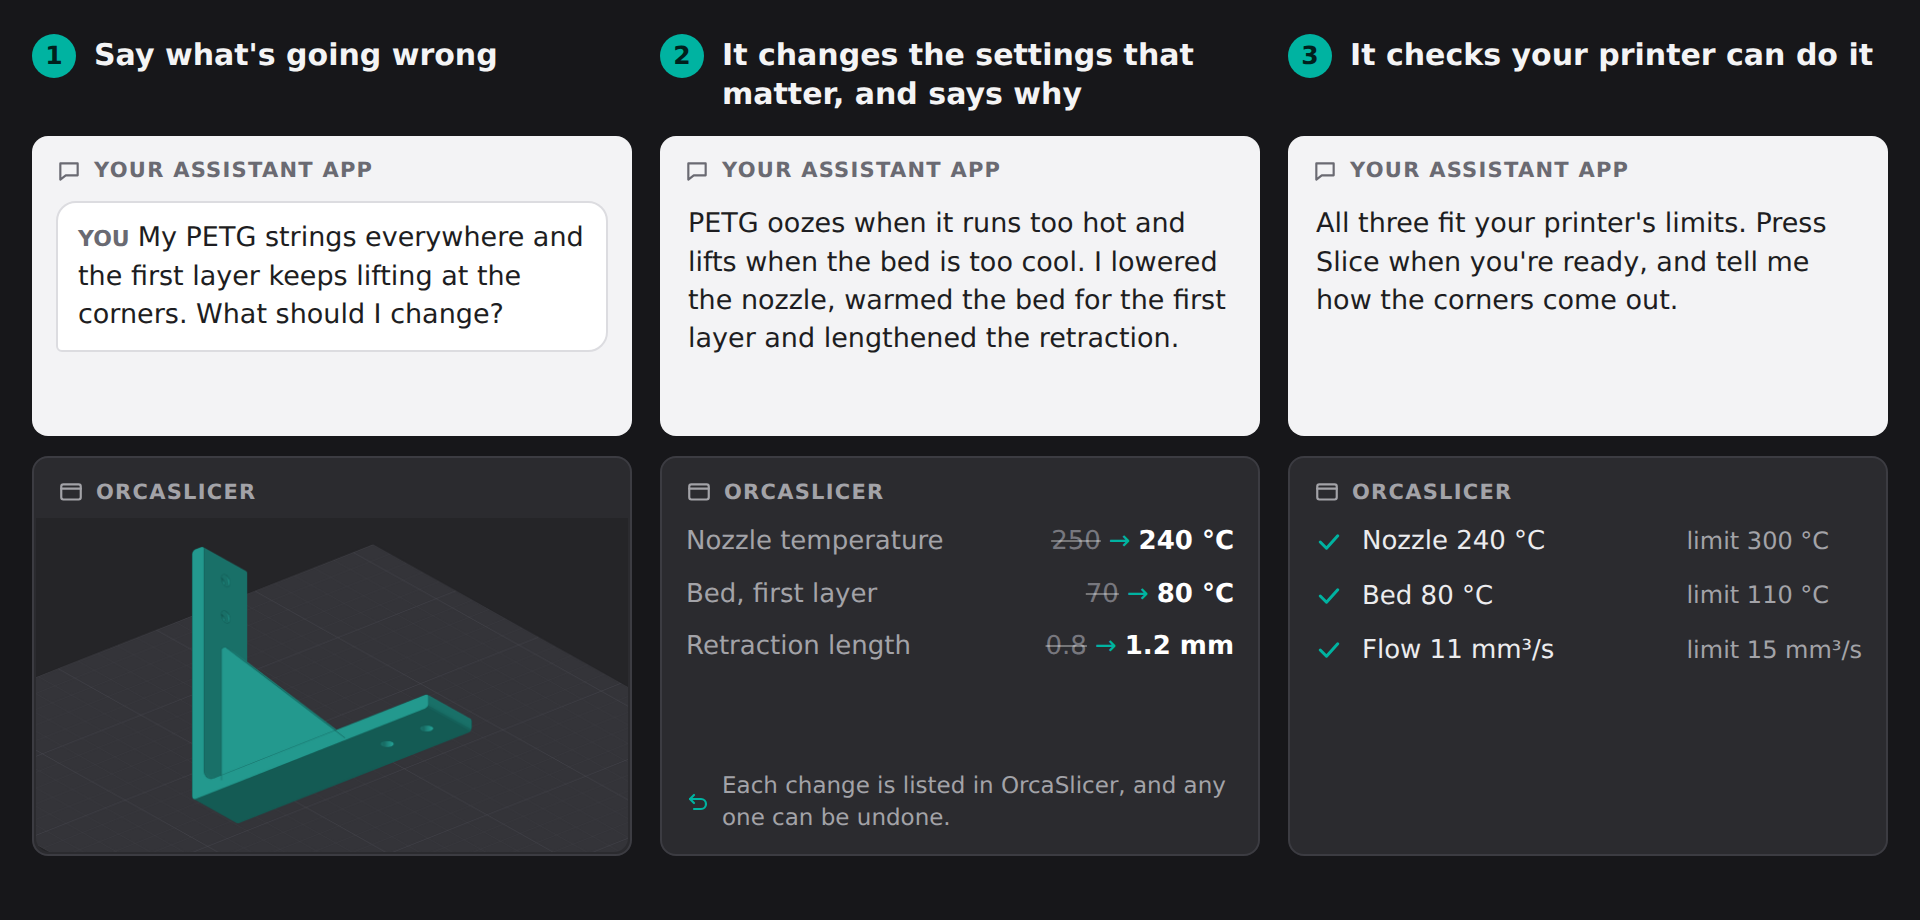
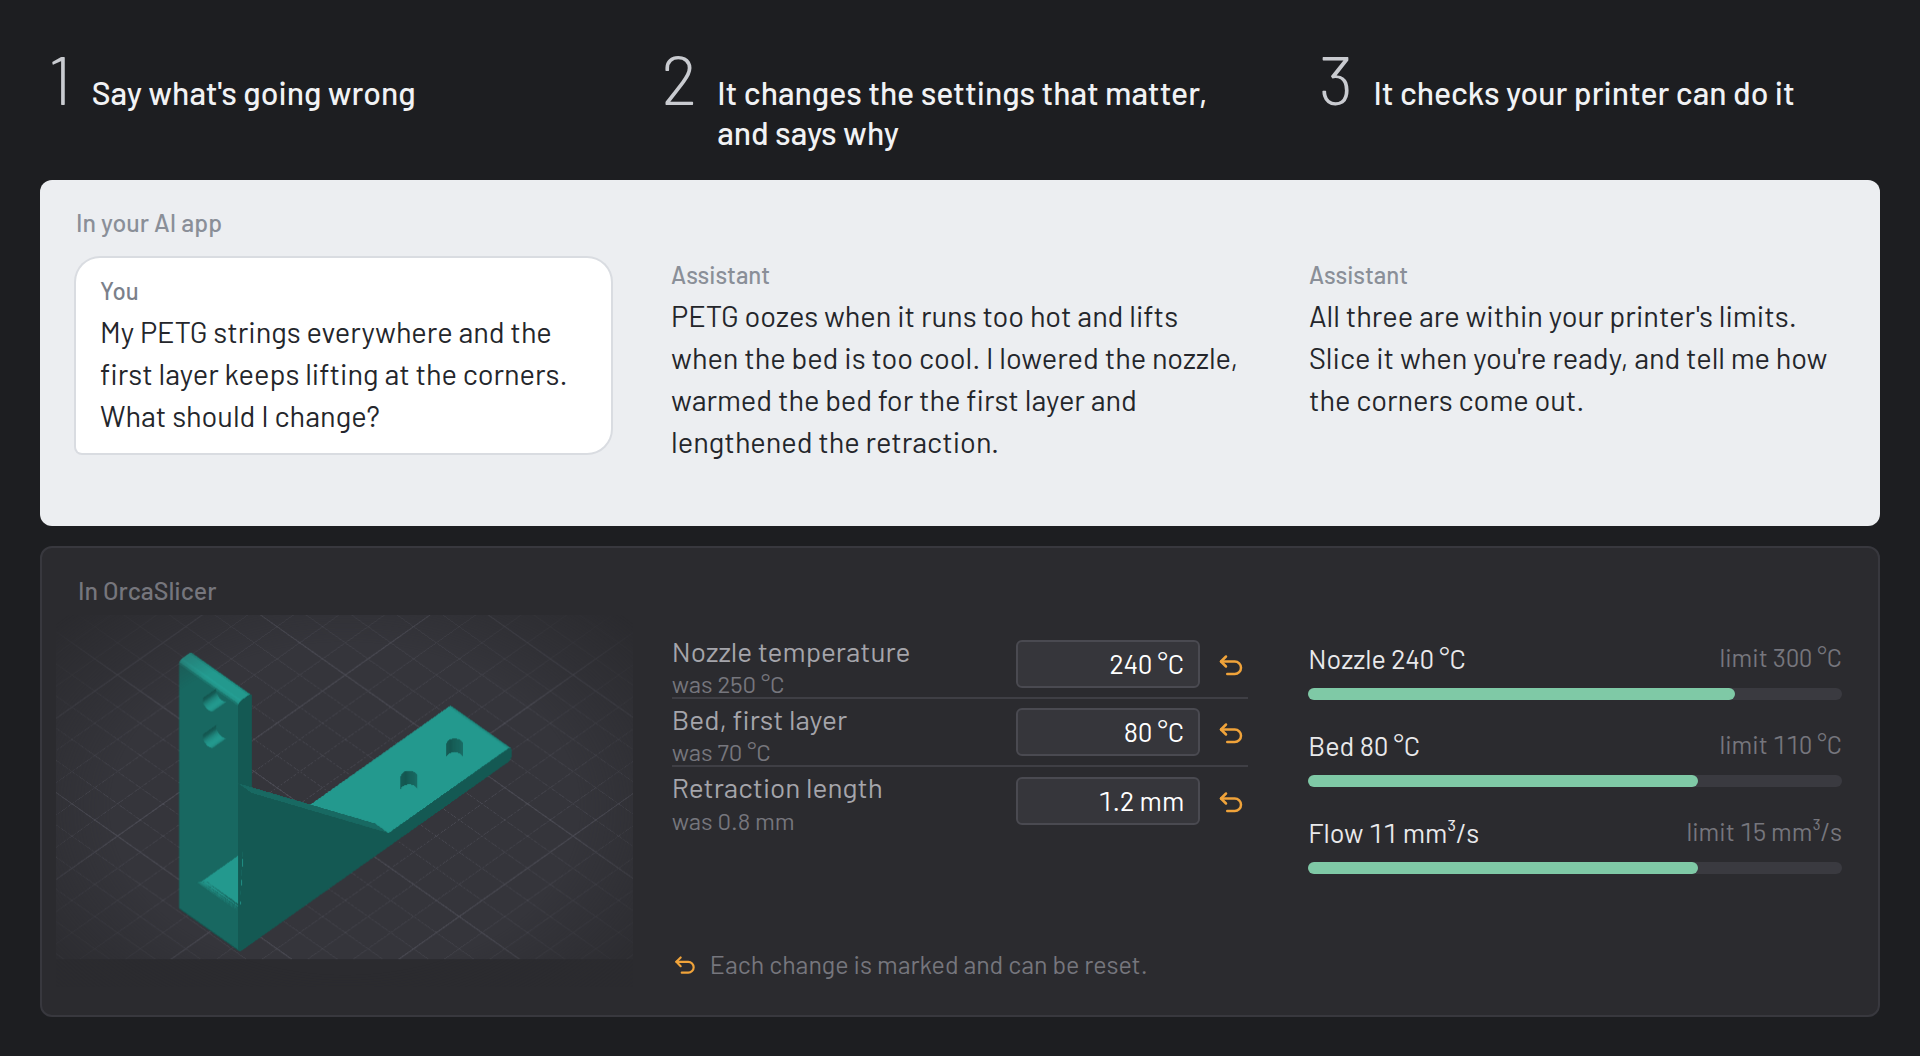
doc: story strip from real OrcaSlicer renders and slices, orientation as one of the changes

diff --git a/README.md b/README.md
@@ -13,7 +13,7 @@
   <a href="https://lobehub.com/mcp/maxellis-orcaslicer-mcp"><img alt="MCP Badge" src="https://lobehub.com/badge/mcp/maxellis-orcaslicer-mcp"></a>
 </p>
 
-<p align="center"><img src="https://raw.githubusercontent.com/MaxEllis/orcaslicer-mcp/main/docs/images/story.png" alt="Three steps, each showing your assistant app above and OrcaSlicer below. 1: in the assistant app you write that the brackets will hold up a shelf and must not snap, without doubling the print time; OrcaSlicer shows the bracket, estimated 1h 40m. 2: the assistant explains that a bracket's strength is mostly in its walls; in OrcaSlicer wall loops go from 2 to 4, sparse infill from 15% to 25% gyroid, nozzle temperature from 210 to 220 °C, each change listed and undoable. 3: the assistant compares the two slices, 1h 40m and 18 g before, 2h 05m and 23 g stronger: 25 minutes more, not double."></p>
+<p align="center"><img src="https://raw.githubusercontent.com/MaxEllis/orcaslicer-mcp/main/docs/images/story.png" alt="Three steps, your AI app above and OrcaSlicer below. 1: you write that the brackets will hold up a shelf and must not snap, without doubling the print time; OrcaSlicer shows the bracket standing, as designed. 2: the assistant explains that standing up, the layers run across the arm that takes the load; it lays the bracket on its side, raises wall loops from 2 to 4 and sparse infill from 15% grid to 25% gyroid, each change marked with a reset arrow. 3: OrcaSlicer's slices: 42 min and 36.2 g as designed, 45 min and 52.0 g stronger; lying flat saved 5 minutes, which pays for most of the extra walls."></p>
 
 You talk to the assistant in your usual AI app, in plain words. It makes the changes in OrcaSlicer, in the window you already use: settings, presets, models, slicing. A panel beside the 3D view lists every change it makes, with a way to undo each one.
 
